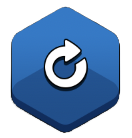
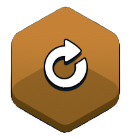
33

diff --git a/src/scenes/SceneSelectScene.js b/src/scenes/SceneSelectScene.js
@@ -38,26 +38,39 @@ export default class SceneSelectScene extends Phaser.Scene {
             fill: '#ffffff'
         };
 
-        const ecommerceButton = this.add.container(width/2, height/2 - 100);
-        const ecommerceBg = this.add.image(0, 0, 'button').setDisplaySize(300, 80);
-        const ecommerceText = this.add.text(0, 0, '农村电商', buttonStyle).setOrigin(0.5);
-        ecommerceButton.add([ecommerceBg, ecommerceText]);
-        ecommerceButton.setSize(300, 80);
-        ecommerceButton.setInteractive();
 
-        const cultureButton = this.add.container(width/2, height/2);
-        const cultureBg = this.add.image(0, 0, 'button').setDisplaySize(300, 80);
-        const cultureText = this.add.text(0, 0, '文化乡村', buttonStyle).setOrigin(0.5);
-        cultureButton.add([cultureBg, cultureText]);
-        cultureButton.setSize(300, 80);
-        cultureButton.setInteractive();
+       // 电商场景按钮
+const ecommerceButton = this.add.container(width/2, height/2 - 100);
+const ecommerceBg = this.add.image(0, 0, 'ecommerce-scene')
+    .setDisplaySize(300, 80);
+const ecommerceText = this.add.text(0, 0, '农村电商', buttonStyle)
+    .setOrigin(0.5)
+    .setDepth(1);  // 确保文字在图片上方
+ecommerceButton.add([ecommerceBg, ecommerceText]);
+ecommerceButton.setSize(300, 80);
+ecommerceButton.setInteractive();  // 添加这行
 
-        const agricultureButton = this.add.container(width/2, height/2 + 100);
-        const agricultureBg = this.add.image(0, 0, 'button').setDisplaySize(300, 80);
-        const agricultureText = this.add.text(0, 0, '现代化农业', buttonStyle).setOrigin(0.5);
-        agricultureButton.add([agricultureBg, agricultureText]);
-        agricultureButton.setSize(300, 80);
-        agricultureButton.setInteractive();
+// 文化场景按钮
+const cultureButton = this.add.container(width/2, height/2);
+const cultureBg = this.add.image(0, 0, 'culture-scene')
+    .setDisplaySize(300, 80);
+const cultureText = this.add.text(0, 0, '文化乡村', buttonStyle)
+    .setOrigin(0.5)
+    .setDepth(1);
+cultureButton.add([cultureBg, cultureText]);
+cultureButton.setSize(300, 80);
+cultureButton.setInteractive();  // 添加这行
+
+// 农业场景按钮
+const agricultureButton = this.add.container(width/2, height/2 + 100);
+const agricultureBg = this.add.image(0, 0, 'agriculture-scene')
+    .setDisplaySize(300, 80);
+const agricultureText = this.add.text(0, 0, '现代化农业', buttonStyle)
+    .setOrigin(0.5)
+    .setDepth(1);
+agricultureButton.add([agricultureBg, agricultureText]);
+agricultureButton.setSize(300, 80);
+agricultureButton.setInteractive();  // 添加这行
 
         const backButton = this.add.container(100, 50);
         const backBg = this.add.image(0, 0, 'button').setDisplaySize(120, 40);
